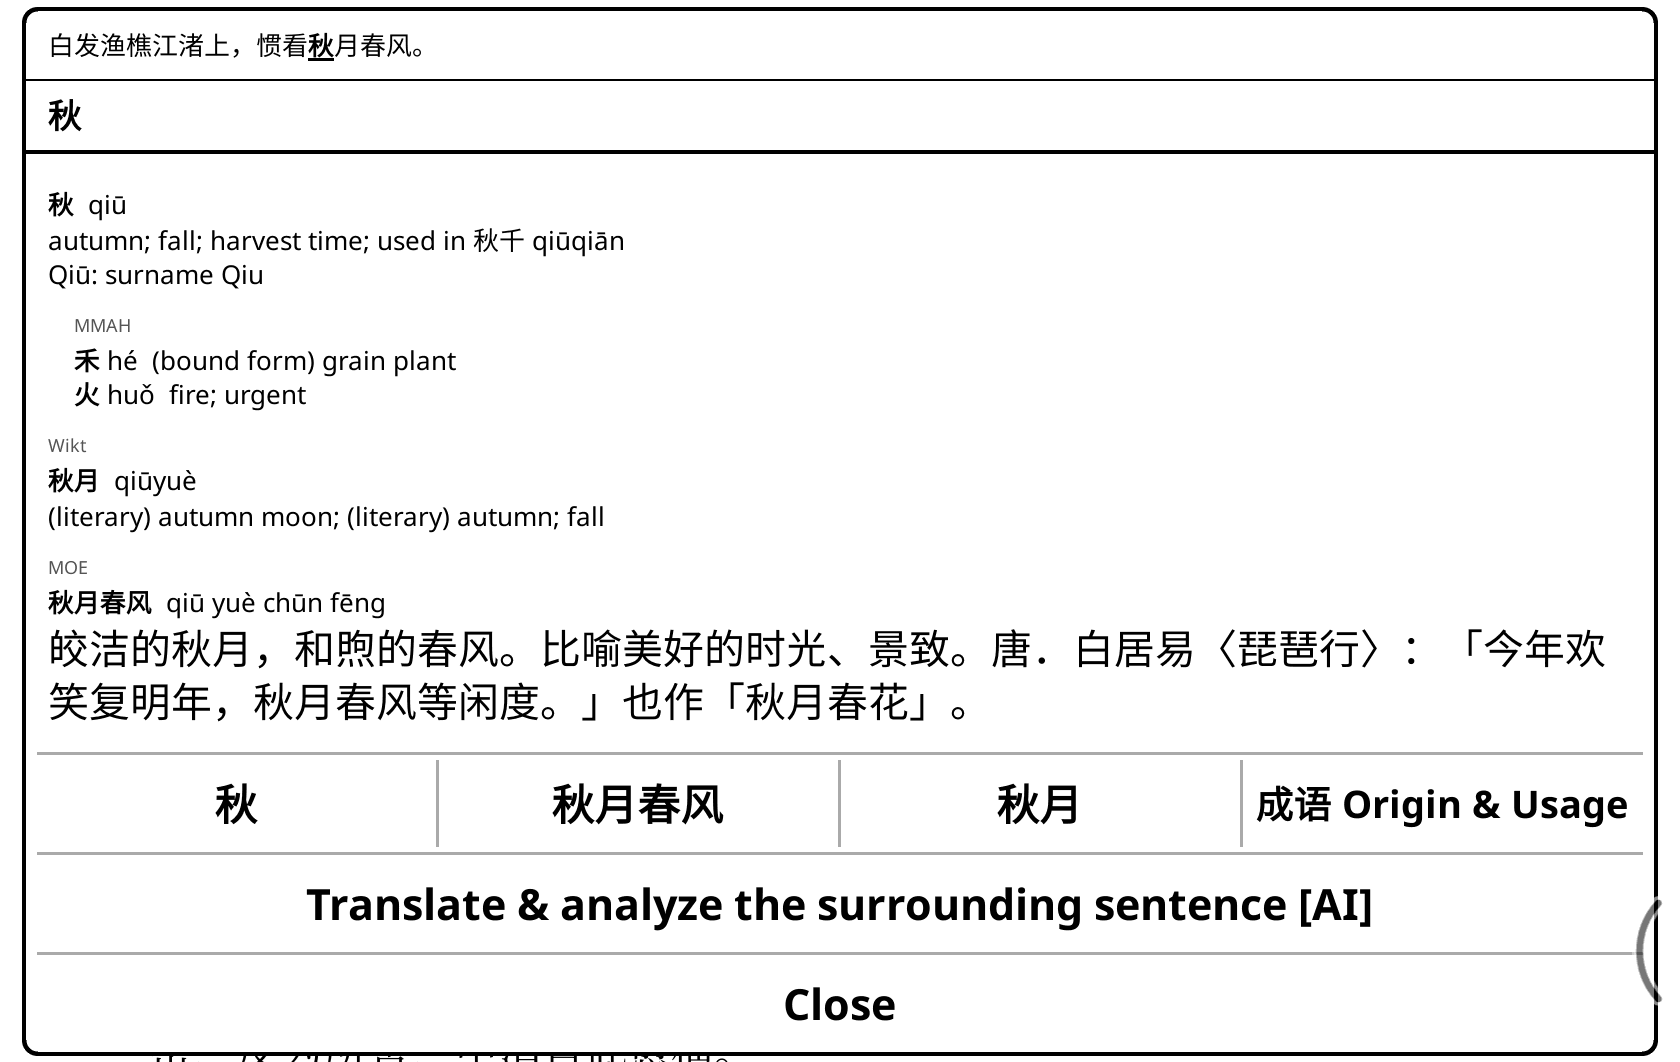
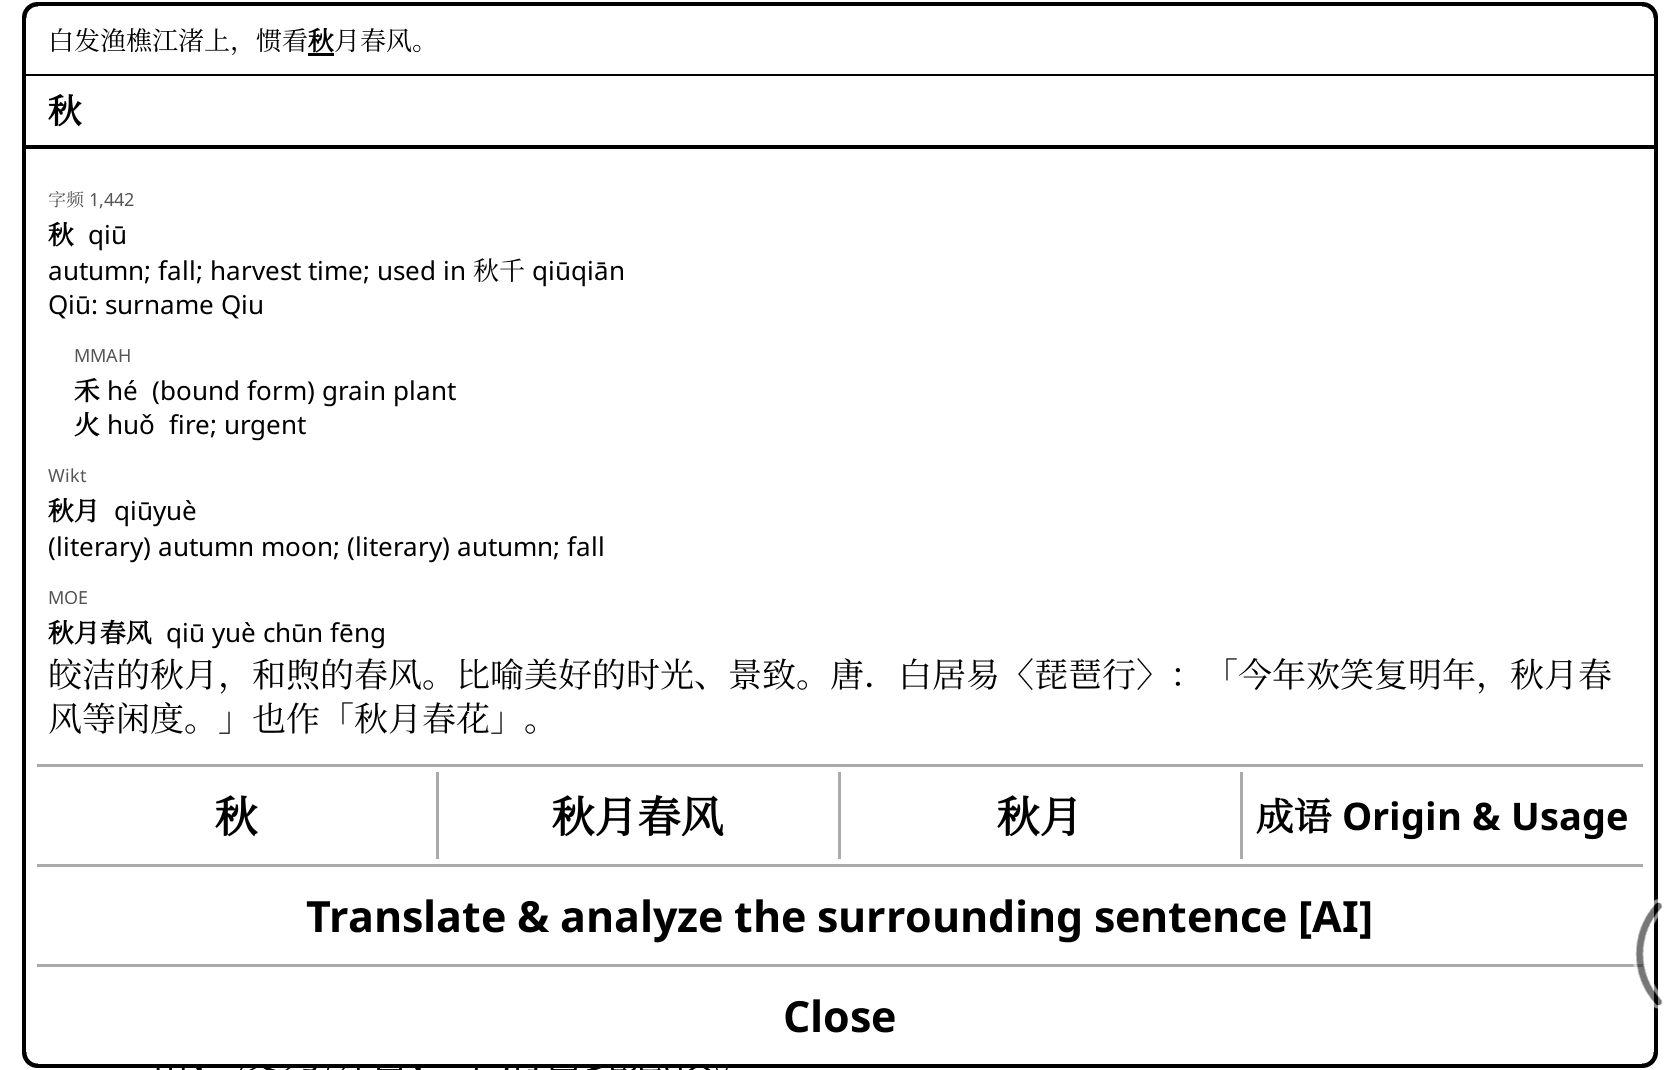
README screenshots retaken with the book's font and the 字频 line (#14)
Pins the Chinese text size and frequency rank to their defaults in the
shot settings, moves the nested 欢 tap and widens four crops for the
taller popups; alt texts mention 字频 and the 窃 popup's parts.

Changed region(s): [[0.0, 0.0, 0.9905, 1.0], [0.9595, 0.839, 0.9905, 0.9322]]

diff --git a/tools/make_screenshots.py b/tools/make_screenshots.py
@@ -100,27 +100,27 @@ SHOTS = {
         frames=[(1, (95, 1185))]),
     "context": dict(page="kyj14", taps=[("间", 1, (773, 500), [
         "**间**  jiàn · likely here", "**间或**  jiànhuò · decides 间's reading"])],
-        frames=[(1, (205, 1057))]),
+        frames=[(1, (188, 1076))]),
     "components": dict(page="kyj13", taps=[("茴", 1, (988, 790), [
         "**茴**  huí", "**艹** cǎo  grass; plant (草字头)  → meaning",
         "**回** huí  to go back; to return  → sound (same sound)", "**茴香豆**  huíxiāngdòu"])],
-        frames=[(1, (196, 1067))]),
+        frames=[(1, (178, 1085))]),
     "traditional": dict(page="aq59", taps=[("观", 1, (170, 965), [
         "**观**  guān · likely here", "traditional 觀:", "**雚** guàn", "→ sound (same sound)",
         "simplified: 雚 → 又", "**观音**  Guānyīn · decides 观's reading"])],
-        frames=[(1, (171, 1091))]),
+        frames=[(1, (154, 1110))]),
     "chengyu": dict(page="kyj13", taps=[("也", 3, (170, 590), [
         "**之乎者也**  zhīhūzhěyě", "[新华] 这四个字都是文言虚词"]), ("出处", None, (1440, 862), [])],
-        frames=[(1, (134, 1130)), (2, (20, 700))]),
+        frames=[(1, (120, 1143)), (2, (20, 700))]),
     "labels": dict(page="sg1", taps=[("秋", 1, (775, 665), [
         "**秋**  qiū", "[MMAH]", "[MOE]", "**秋月春风**  qiū yuè chūn fēng", "[Wikt]", "**秋月**  qiūyuè"])],
-        frames=[(1, (100, 1162))]),
+        frames=[(1, (97, 1167))]),
     # A character of the popup's own text: 欢, inside MOE's quotation of 〈琵琶行〉,
     # opens its popup on top; the context line is the quotation (the device's
     # log must give it as the sentence), the 欢 below underlined.
     "nested": dict(page="sg1", taps=[("秋", 1, (775, 665), ["[MOE]", "**秋月春风**  qiū yuè chūn fēng"]),
-                                     ("欢", "nested", (1585, 750), ["「今年欢笑复明年，秋月春风等闲度。」"])],
-                   frames=[(2, (100, 1162))]),
+                                     ("欢", "nested", (1322, 772), ["「今年欢笑复明年，秋月春风等闲度。」"])],
+                   frames=[(2, (97, 1167))]),
     "translate": dict(page="kyj13", taps=[("窃", 1, (1465, 995), ["**窃**  qiè"])],
         frames=[(1, (15, 1160))]),
     # Page 1 with pinyin off, then on: the plugin adds line space where it
@@ -178,6 +178,7 @@ def settings_variant(original, pinyin=True):
     """The user's settings.reader.lua with the shot settings."""
     keys = {"chinesehelper_threshold": THRESHOLD, "chinesehelper_pinyin_enabled": "true" if pinyin else "false",
             "chinesehelper_popup_enabled": "true", "chinesehelper_popup_text_pct": 60,
+            "chinesehelper_chinese_text_pct": 130, "chinesehelper_char_rank": "true",
             "chinesehelper_labels": '"fallback"', "chinesehelper_uncertain": '"both"',
             "chinesehelper_components": "true", "chinesehelper_popup_context": "true",
             "chinesehelper_page_underline": "true",

diff --git a/README.md b/README.md
@@ -11,24 +11,24 @@ the reading the character takes in this context: 行 is *háng* in 银行 but *x
 cutoff you choose: the hard ones get help and the rest of the page stays clean. It works on any
 reflowable book (EPUB, FB2, MOBI, TXT and the like) as soon as you open it.
 
-![The opening of 三国演义 第一回 on a Boox Go 7: the chapter title, then the popup on 密. At its top, the line 时有宦官曹节等弄权，窦武、陈蕃谋诛之，作事不密，反为所害，中涓自此愈横。 with 密 in bold and underlined; then 密 mì, "dense; close; … (bound form) secret; confidential …", "Mì: surname Mi"; its parts, labelled Wikt: 宓 mì still; silent → sound (same sound), 山 shān mountain → meaning; then 不密 bùmì "(literary) not well thought out; (literary) not secret", labelled Wikt; buttons 密 and 不密, then Translate & analyze the surrounding sentence [AI] on its own row, then Close at the bottom. Below the popup, the last lines of the 话说天下大势 paragraph, with juān above 涓 and 密 underlined on the page](docs/main.png)
+![The opening of 三国演义 第一回 on a Boox Go 7: the chapter title, then the popup on 密. At its top, the line 时有宦官曹节等弄权，窦武、陈蕃谋诛之，作事不密，反为所害，中涓自此愈横。 with 密 in bold and underlined; then 字频 646 in small grey, 密 mì, "dense; close; … (bound form) secret; confidential …", "Mì: surname Mi"; its parts, labelled Wikt: 宓 mì still; silent → sound (same sound), 山 shān mountain → meaning; then 不密 bùmì "(literary) not well thought out; (literary) not secret", labelled Wikt; buttons 密 and 不密, then Translate & analyze the surrounding sentence [AI] on its own row, then Close at the bottom. Below the popup, the last lines of the 话说天下大势 paragraph, with juān above 涓 and 密 underlined on the page](docs/main.png)
 
 <table>
 <tr>
 <td width="50%"><img src="docs/off-on.png" alt="The 临江仙 that opens 三国演义, pinyin off (top) and on (bottom): with it on, only 樵 qiáo and 渚 zhǔ get pinyin, the rest of the page stays clean"><br><a href="#usage"><b>Pinyin only above the hard characters</b></a>, at the level you choose (here the default: outside the 3,500 most common)</td>
-<td width="50%"><img src="docs/context.png" alt="Popup for 间 in 孔乙己's 虽然间或没有现钱: at the top the line 但他在我们店里，品行却比别人都好，就是从不拖欠；虽然间或没有现钱，… with 间 marked; 间 jiàn · likely here, jiān listed after it; 间或 jiànhuò · decides 间's reading, occasionally; now and then"><br><a href="#the-popup"><b>The reading it has here</b></a>, and the word that decides it: 间 is <i>jiàn</i> in 间或</td>
+<td width="50%"><img src="docs/context.png" alt="Popup for 间 in 孔乙己's 虽然间或没有现钱: at the top the line 但他在我们店里，品行却比别人都好，就是从不拖欠；虽然间或没有现钱，… with 间 marked; 字频 113, then 间 jiàn · likely here, jiān listed after it; 间或 jiànhuò · decides 间's reading, occasionally; now and then"><br><a href="#the-popup"><b>The reading it has here</b></a>, and the word that decides it: 间 is <i>jiàn</i> in 间或</td>
 </tr>
 <tr>
-<td><img src="docs/components.png" alt="Popup for 茴 in 孔乙己's 要一碟茴香豆: at the top the line 他不回答，对柜里说：“温两碗酒，要一碟茴香豆。” with 茴 marked; 茴 huí; its parts, labelled Wikt: 艹 cǎo grass; plant (草字头) → meaning, 回 huí to go back → sound (same sound); then 茴香豆 and 茴香"><br><a href="#character-components"><b>What each character is made of</b></a>: 茴 is 艹 for the meaning and 回 <i>huí</i> for the sound</td>
-<td><img src="docs/traditional.png" alt="Popup for 观 in 阿Q正传's 观音娘娘: at the top the line …而且又不见了观音娘娘座前的一个宣德炉。 with 观 marked; 观 guān · likely here; traditional 觀: 雚 guàn (archaic) stork; heron → sound (same sound), 見 jiàn see → meaning, simplified: 雚 → 又; 观音 Guānyīn · decides 观's reading"><br><a href="#character-components"><b>Parts the simplification hid</b></a>: 观 is read through 觀, 雚 <i>guàn</i> → sound</td>
+<td><img src="docs/components.png" alt="Popup for 茴 in 孔乙己's 要一碟茴香豆: at the top the line 他不回答，对柜里说：“温两碗酒，要一碟茴香豆。” with 茴 marked; 字频 4,633, then 茴 huí; its parts, labelled Wikt: 艹 cǎo grass; plant (草字头) → meaning, 回 huí to go back → sound (same sound); then 茴香豆 and 茴香"><br><a href="#character-components"><b>What each character is made of</b></a>: 茴 is 艹 for the meaning and 回 <i>huí</i> for the sound</td>
+<td><img src="docs/traditional.png" alt="Popup for 观 in 阿Q正传's 观音娘娘: at the top the line …而且又不见了观音娘娘座前的一个宣德炉。 with 观 marked; 字频 407, then 观 guān · likely here; traditional 觀: 雚 guàn (archaic) stork; heron → sound (same sound), 見 jiàn see → meaning, simplified: 雚 → 又; 观音 Guānyīn · decides 观's reading"><br><a href="#character-components"><b>Parts the simplification hid</b></a>: 观 is read through 觀, 雚 <i>guàn</i> → sound</td>
 </tr>
 <tr>
-<td><img src="docs/chengyu.png" alt="Popup for 也 in 孔乙己's 满口之乎者也: at the top the line 他对人说话，总是满口之乎者也，教人半懂不懂的。 with 也 marked; then 也 yě, 满口之乎者也 and 之乎者也 from CC-CEDICT, 之乎者也 with a Chinese line labelled 新华: 这四个字都是文言虚词，讽刺人说话喜欢咬文嚼字。也形容半文不白的话或文章。; a 成语 Origin &amp; Usage button"><br><a href="#chengyu"><b>Chengyu explained</b></a>: 之乎者也 with Xinhua's line (optional file) …</td>
+<td><img src="docs/chengyu.png" alt="Popup for 也 in 孔乙己's 满口之乎者也: at the top the line 他对人说话，总是满口之乎者也，教人半懂不懂的。 with 也 marked; then 字频 38, 也 yě, its Wikt line pictogram (象形), 满口之乎者也 and 之乎者也 from CC-CEDICT, 之乎者也 with a Chinese line labelled 新华: 这四个字都是文言虚词，讽刺人说话喜欢咬文嚼字。也形容半文不白的话或文章。; a 成语 Origin &amp; Usage button"><br><a href="#chengyu"><b>Chengyu explained</b></a>: 之乎者也 with Xinhua's line (optional file) …</td>
 <td><img src="docs/chengyu-2.png" alt="The Origin &amp; Usage view for 之乎者也 from 新华成语: 释义; 出处 宋·文莹《湘山野录》：“之乎者也，助得甚事？”; 例句 他对人说话，总是满口之乎者也，叫人半懂不懂的。"><br>… and its <a href="#chengyu"><b>Origin &amp; Usage</b></a> view: the classical source and an example from this same passage of 孔乙己</td>
 </tr>
 <tr>
-<td><img src="docs/labels.png" alt="Popup for 秋 in the 临江仙's 惯看秋月春风: at the top the line 白发渔樵江渚上，惯看秋月春风。 with 秋 marked; 秋 qiū from CC-CEDICT; its parts 禾 and 火 labelled MMAH; 秋月 labelled Wikt; last, 秋月春风 labelled MOE with its Chinese definition in larger type; a 成语 Origin &amp; Usage button"><br><a href="#fallback-dictionaries"><b>Several dictionaries, each labelled</b></a>: CC-CEDICT, Wiktionary for 秋月, and last, in larger type, MOE (optional) for 秋月春风</td>
-<td><img src="docs/translate.png" alt="Popup for 窃 at the top of the page, its line 孔乙己便涨红了脸，额上的青筋条条绽出，争辩道：“窃书不能算偷……窃书！ with 窃 marked, a Translate &amp; analyze the surrounding sentence [AI] button and Close below it; below it the page of 孔乙己, 窃 underlined in the line 窃书不能算偷……窃书！……读书人的事，能算偷么？"><br><a href="#translating-the-sentence"><b>Translate &amp; analyze the sentence</b></a> with KOAssistant (while Wi-Fi is on): here 孔乙己's 窃书不能算偷</td>
+<td><img src="docs/labels.png" alt="Popup for 秋 in the 临江仙's 惯看秋月春风: at the top the line 白发渔樵江渚上，惯看秋月春风。 with 秋 marked; 字频 1,442, then 秋 qiū from CC-CEDICT; its parts 禾 and 火 labelled MMAH; 秋月 labelled Wikt; last, 秋月春风 labelled MOE with its Chinese definition in larger type; a 成语 Origin &amp; Usage button"><br><a href="#fallback-dictionaries"><b>Several dictionaries, each labelled</b></a>: CC-CEDICT, Wiktionary for 秋月, and last, in larger type, MOE (optional) for 秋月春风</td>
+<td><img src="docs/translate.png" alt="Popup for 窃 at the top of the page, its line 孔乙己便涨红了脸，额上的青筋条条绽出，争辩道：“窃书不能算偷……窃书！ with 窃 marked; 字频 2,026, 窃 qiè to steal; secretly; (humble) I, its parts 穴 xué and 切 qiè labelled MMAH, then a 窃 button, Translate &amp; analyze the surrounding sentence [AI] and Close; below it the page of 孔乙己, 窃 underlined in the line 窃书不能算偷……窃书！……读书人的事，能算偷么？"><br><a href="#translating-the-sentence"><b>Translate &amp; analyze the sentence</b></a> with KOAssistant (while Wi-Fi is on): here 孔乙己's 窃书不能算偷</td>
 </tr>
 </table>
 
@@ -229,7 +229,7 @@ font chosen in KOReader's font menu, not a font the book embeds or sets in its C
 that font lacks comes from KOReader's usual fallback fonts. For a PDF, or when the font cannot be
 loaded, the popup uses the UI font. Turned off, the popup is exactly as before.
 
-![A tall popup for 观 in 阿Q正传: at the top the line 尼姑待他们走后，定了神来检点，龙牌固然已经碎在地上了，而且又不见了观音娘娘座前的一个宣德炉。 with 观 in bold and underlined, then 观 guān · likely here, its traditional form 觀's parts, and 观音 Guānyīn · decides 观's reading](docs/traditional.png)
+![A tall popup for 观 in 阿Q正传: at the top the line 尼姑待他们走后，定了神来检点，龙牌固然已经碎在地上了，而且又不见了观音娘娘座前的一个宣德炉。 with 观 in bold and underlined, then 字频 407 and 观 guān · likely here, its traditional form 觀's parts, and 观音 Guānyīn · decides 观's reading](docs/traditional.png)
 
 ### Tapping a character in the popup
 
@@ -240,7 +240,7 @@ around it in that text that contains it), and stays underlined in the popup belo
 one is open. Nothing else in the popup is tappable: not the headlines (the character or word
 the entry is for), the components, or the English glosses.
 
-![Popup for 秋 in the 临江仙, and on top of it the popup for 欢, tapped in MOE's quotation of 〈琵琶行〉: its line at the top is 「今年欢笑复明年，秋月春风等闲度。」 with 欢 marked, then 欢 huān, its parts, 欢笑 huānxiào, and the buttons 欢 and 欢笑, then Close at the bottom (no Translate in a popup opened from a popup)](docs/nested.png)
+![Popup for 秋 in the 临江仙, and on top of it the popup for 欢, tapped in MOE's quotation of 〈琵琶行〉: its line at the top is 「今年欢笑复明年，秋月春风等闲度。」 with 欢 marked, then 字频 443, 欢 huān, its traditional form 歡's parts, 欢笑 huānxiào, and the buttons 欢 and 欢笑, then Close at the bottom (no Translate in a popup opened from a popup)](docs/nested.png)
 
 - **Its text is the popup's, not the book's.** The line at the top is the sentence around the
   character in the popup text: cut at 。！？；, a line break, or a closing quote after one of
